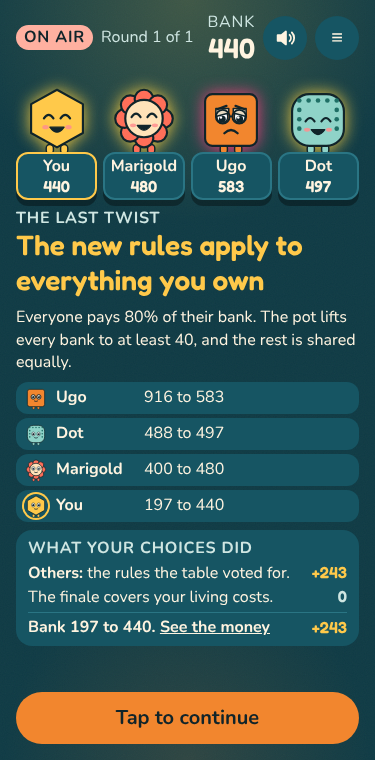
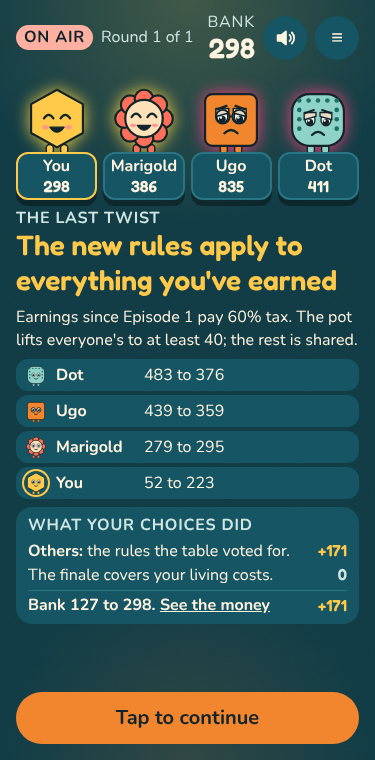
V5 docs: finale on earnings since Episode 1 (D-216), report and progress
Before and after table on 1,000 lives, the three Second Chance sweeps, the
new rules hash b43294bd2727aac5, the updated finale screenshot.

Claude-Session: https://claude.ai/code/session_01RbQhqfpyTmtKFQHjTVYERY

diff --git a/docs/V5_REPORT.md b/docs/V5_REPORT.md
@@ -1,8 +1,8 @@
 # V5 report
 
-Branch `v5`, made from `ui-v4` at `254be45`. Three phases, done in order, then an engine follow-up. Each was gated, committed, pushed and logged in `docs/V5_PROGRESS.md`. Choices are recorded in `DECISIONS.md` as D-210 to D-215 [V5, review]. Nothing was merged or deployed. Study is untouched: the golden test passes at every commit.
+Branch `v5`, made from `ui-v4` at `254be45`. Three phases, done in order, then an engine follow-up. Each was gated, committed, pushed and logged in `docs/V5_PROGRESS.md`. Choices are recorded in `DECISIONS.md` as D-210 to D-216 [V5, review]. Nothing was merged or deployed. Study is untouched: the golden test passes at every commit.
 
-**New rules hash: `d43a27b11694414b`** (`b1b485fa65cf3b29` before V5, `35f3c43191c5b77b` after N1). N1 and the follow-up changed the engine, each change in its own commit. Merging needs the room server redeployed with this hash first.
+**New rules hash: `b43294bd2727aac5`** (`b1b485fa65cf3b29` before V5, `35f3c43191c5b77b` after N1, `d43a27b11694414b` after the first follow-up). N1 and the follow-up changed the engine, each change in its own commit. Merging needs the room server redeployed with this hash first.
 
 ## N1. Missions removed (D-210)
 
@@ -181,9 +181,68 @@ Episodes 1 and 2 did not change, so E1 and E2 are identical.
 
 That is why born-poorest wins jumped to 64% (an even share would be 25%), and why the gap between first and last in score stays wide even though the banks end close together (top to bottom bank about 1.3 to 1). Only a scoring change reached the gap target: counting the whole bank from the start gave 22.1%, but it broke the other two targets. That is the owner's decision, not a tuning knob.
 
+## Finale on earnings since Episode 1 (D-216)
+
+D-215 taxed the whole bank, birth income included, while the score counts only the bank since the end of Episode 1. That double-counted: someone born rich paid tax on coins that never counted for them, and born-poorest wins rose to 64%.
+
+**The fix (`edaa0c8`).** In a life, the winning tax and floor act at the end of the finale, after donations and calls, on each contestant's earnings since the end of Episode 1 (their scored bank):
+- only positive earnings are taxed;
+- the floor tops up earnings below it;
+- the rest is shared equally;
+- the Episode 1 bank is not touched.
+
+The staged screen now says "The new rules apply to everything you've earned" and lists each contestant's earnings before and after while the podium banks count. Bots value their proposals, votes and donations under the new rule. A single Episode 5 is unchanged.
+
+**Sweeps (300 lives each).** Second Chance at 120, 180 and 250:
+
+| Second Chance | Finale lead change | Gap share | Born poorest wins | Note |
+|---|---|---|---|---|
+| 120 | 9.0% | 47.6% | 37.7% | |
+| 180 | 13.7% | 41.3% | 37.0% | **chosen**, best on all three |
+| 250 | 9.3% | 42.4% | 36.0% | |
+
+**Tuning (`7106441`).** Second Chance 250 to 180, confirmed on 1,000 lives.
+
+### Before and after, 1,000 bot lives
+
+| 1,000 bot lives | Before (`d43a27b11694414b`) | After (`b43294bd2727aac5`) |
+|---|---|---|
+| E1 peekers vote less redistribution (> 0) | 0.485 ± 0.026 PASS | 0.485 ± 0.026 PASS |
+| E2 effort slope on tax (< 0) | -4.225 ± 0.168 PASS | -4.225 ± 0.168 PASS |
+| E2 added: overclaimed hours (> 0) | 0.355 ± 0.015 PASS | 0.355 ± 0.015 PASS |
+| E3a high- to low-risk applicants (at least 2) | 4.72 PASS | 4.72 PASS |
+| E3b round-3 price rise (at least +15%) | +39.6% PASS | +39.6% PASS |
+| E3c bars that hit high risk (at least 60%) | 91.5% PASS | 91.5% PASS |
+| E3d round-3 pool price (above 0) | 0.391 PASS | 0.391 PASS |
+| E4a Circle minus Square gap positive (at least 70%) | 88.7% PASS | 89.0% PASS |
+| E4b passing Squares hired complex (at most 10%) | 0.0% PASS | 0.0% PASS |
+| E5 fair-answer shift slope (< 0) | -0.057 PASS | -0.051 PASS |
+| F-a lead changes per life (at least 2) | 3.75 PASS | 3.32 PASS |
+| F-b last after Ep2 finishes 1st or 2nd (at least 20%) | 35.4% PASS | 37.2% PASS |
+| F-c top two within 15% (at least 40%) | 56.4% PASS | 58.1% PASS |
+| F-d a big moment (at least 90%) | 96.7% PASS | 96.2% PASS |
+| F-f someone goes into debt (30% to 70%) | 53.8% PASS | 53.8% PASS |
+| Wins by bot trait (no target) | Chet 31.3%, Marigold 12.9%, Ugo 31.6%, Dot 24.2% | Chet 29.5%, Marigold 12.9%, Ugo 32.8%, Dot 24.8% |
+| U5: final order = order after Ep2 (at most 35%) | 9.4% PASS | 8.5% PASS |
+| **Ep4 leader loses the finale (at least 20%)** | 40.5% PASS | **9.8% ± 0.9 (miss)** |
+| **Score gap 1st to 4th, share of the winner (at most 45%)** | 57.4% (miss) | **44.7% ± 1.7 PASS** |
+| **Born poorest wins (15% to 35%)** | 64.0% (miss, above 35%) | **35.9% ± 1.5 (miss by 0.9 points)** |
+
+Episodes 1 to 3 did not change, so E1 to E3 are identical.
+
+**What this shows.** Taxing only earnings removes the double count:
+- the score gap now meets its target;
+- born-poorest wins falls from 64% to just over the ceiling.
+
+The cost is the finale lead change. With birth income untaxed, the finale compresses earnings but rarely reorders them, so the Episode 4 leader usually stays first. None of the three Second Chance values reached 20%. The three targets pull against each other with the knobs allowed. Meeting all three would need a different finale lever, for example a larger pot or a floor tied to the median; that is a rules decision.
+
+**Also in this round (UI only, `88e84da`).** Today's Daily Life seed overflowed 360 x 760 on two screens:
+- Episode 2's prize split among everyone now reads "Split 4 ways.";
+- the result card's best and worst lines drop the episode name.
+
 ## Taps and words
 
-Seed `fresh-life-1`, 375 x 760. Before is end of UI V4 (`254be45`); after is end of N3 (`2e86b33`). The engine follow-up turns the Second Chance into a screen with no choice and adds the finale's whole-bank beat: 74 taps on this seed (73 to 75 over three seeds), pace 7.5 min, decision screens at most 44 words. The "before" summary and pay word counts are from the UI V4 V3 walkthrough of the same seed; V4 did not change those screens.
+Seed `fresh-life-1`, 375 x 760. Before is end of UI V4 (`254be45`); after is end of N3 (`2e86b33`). The engine follow-ups turn the Second Chance into a screen with no choice and add the finale's beat: 74 taps on this seed, 76 on `fresh-life-3` (over N3's 75), pace 7.5 min, decision screens at most 44 words. The "before" summary and pay word counts are from the UI V4 V3 walkthrough of the same seed; V4 did not change those screens.
 
 | | Before | After N1 | After N3 |
 |---|---|---|---|
@@ -224,19 +283,19 @@ More shots are in `docs/review/v5/`:
 - the result card: `extra-result-card.png`
 - a carried result on the next screen: `extra-carried-result-ep1-peek.png`
 - the Second Chance screen: `extra-second-chance.png`
-- the finale's whole-bank beat: `extra-whole-bank.png`
+- the finale's earnings beat: `extra-whole-bank.png`
 - the Episode 3 secret cards with the new Worrier/Calm text: `extra-worrier-card.png` (this seed is Calm)
 - Episode 4's pay screen: `extra-ep4-pay.png`
 - an event card: `extra-ep3-event.png`
 
 ## What's left
 
-- **Score gap (D-215).** The finale now reorders the table (the Episode 4 leader loses it in 40.5% of lives), but the score gap share is 57.4% (target 40%). Born-poorest wins is 64.0%. Both come from scoring from the end of Episode 1 while the finale taxes birth income. Counting the whole bank from the start would fix the gap and break the other two targets; the owner decides.
-- **Second Chance at 250.** It is now a large gift (about two thirds of the top-to-bottom gap after Episode 3). In the screenshot seed, "last on score" is not the lowest bank, because the score counts from the end of Episode 1; the screen does not explain that.
-- **Finale beat.** It is 75 content words (a results screen, no limit set), and it repeats the bank change in "What your choices did".
+- **Finale lead change (D-216).** The Episode 4 leader loses the finale in 9.8% of lives (target at least 20%), and born-poorest wins is 35.9% (target at most 35%). The score gap passes (44.7%). Meeting all three needs a finale rule change; the owner decides.
+- **Second Chance at 180.** "Last on score" can hold more coins than someone else, because the score counts from the end of Episode 1; the screen does not explain that.
+- **Finale beat.** It lists earnings, while the podiums show banks; a reader may need a moment to see why the order differs.
 - **"You played like…".** The mapping from choices to principles is a judgement; review it.
 - **Worrier interest.** The 10% rate was not swept (it moves none of the three life targets).
-- **Taps.** A life is at 73 to 75 taps over three seeds after the follow-up, so a long one lands exactly on 75.
+- **Taps.** A life is at 74 to 76 taps after the follow-ups, one over N3's limit of 75 on `fresh-life-3`.
 - **Summary.** The ranking bars left the summary to stay under 50 words; only your place remains, and the screen now has a lot of empty space.
 - **Rooms.** Multiplayer rooms keep the folded screens (the incomes and prize screens), and were not tested against the room server.
 - **Not seen or heard by a person:** the new look's fonts, grain and characters, and the sounds from UI V4.
@@ -255,6 +314,9 @@ No person has played V5, including the follow-up. Every number here comes from b
   - `0a232ae`: Second Chance without a choice
   - `6bf11e0`: finale on the whole bank
   - `24e5dc4`: Second Chance 250 (tuning), rules hash `d43a27b11694414b`
+  - `edaa0c8`: finale taxes earnings since Episode 1
+  - `7106441`: Second Chance 180 (tuning), rules hash `b43294bd2727aac5`
+  - `88e84da`: two 360 px fit fixes (copy only)
 - This report and the docs are committed on top of them.
-- **Rules hash the room server must serve:** `d43a27b11694414b`.
+- **Rules hash the room server must serve:** `b43294bd2727aac5`.
 - **Preview link:** none. This run did not deploy, as instructed.

diff --git a/DECISIONS.md b/DECISIONS.md
@@ -851,3 +851,4 @@ The author's third review: lie success was 98% and bar recall 23%, so lying domi
 - **D-213 [V5, review] The Worrier pays interest (Play engine; own commit c6814e9).** A Worrier who ends an Episode 3 round in debt pays `PLAY.WORRIER_DEBT_RATE` (10%) of the debt, rounded up, as a ledger line "Worrier interest" (after the living costs; the bank line adds "Then -N Worrier interest."). Calm players pay none. It replaces D-128's debt-stress multiplier (`WORRIER_STRESS_MULT` 3), which stopped costing anything when the score became the bank (D-210). Bots value it the same way: a Worrier's own valuation takes the interest off its bank this round and in the rounds still to come at the episode's drift (as D-122's horizon), and the public models of others' choices and votes read a Worrier through the interest (the debt-stress risk aversion every bot has stays, at 1x for everyone). The card says exactly that: "End a round in debt and you pay 10% of the debt as interest, rounded up." / "No interest on debt." The rate was not swept (it moves none of the three life targets). Unit test: the line equals the rounded-up 10% of the debt before it, only for Worriers in debt.
 - **D-214 [V5, review] Second Chance without a choice (Play engine; own commit 0a232ae).** The coins-or-points DECIDE step is gone. In a life, a REVEAL step before Episode 4 gives whoever is last on score after Episode 3 `PLAY.SECOND_CHANCE_COINS` (was `COMEBACK.COINS` 120; the 40 points option is removed, so no score comes from anything but the bank). One screen for everyone ("The show feels sorry for you." or "for Ugo"), a +N stamp on the podium, tap to continue. Tuned to 250 in D-215.
 - **D-215 [V5, review] The finale reaches the whole bank (Play engine; own commit 6bf11e0; tuning 24e5dc4; rules hash 35f3c43191c5b77b to d43a27b11694414b).** In a life, the rule that wins Episode 5's amendments acts once on every contestant's whole bank at the end of the finale, after the donations and calls: each pays the tax on their bank above 0, the pot tops everyone (a debt too) up to the floor, and the rest is shared equally; if the pot is short, each top-up is cut in proportion (`wholeBankRule`; no leak, unlike Study's KAPPA). The finale still covers the living cost. Before, D-155 already taxed the banks, but at the start of the finale, with a debt counted as 0 and left in place, and with donations moved after the rule. Bots value their proposals, votes and donations under the new rule (a donation now moves coins before the tax). The veil stage still values constitutions on the deck times 2 (unchanged). A new staged beat in a life, "The new rules apply to everything you own": the podiums hold each bank before the rule (the ballots reveal holds them too), then each counts to its new value, with a before-and-after list and what your choices did; a rule of 0% and 0 says it changes nothing. A single Episode 5 is unchanged. **Sweeps** (300 lives, seeds runaway; finale lead change / score gap share / born poorest wins): with the new rules and no tuning 42.7% / 64.8% / 65.0%; finale values weight 1: 34.0 / 64.2 / 59.7; weight 10: 40.3 / 65.1 / 65.7; Second Chance 250: 40.7 / 58.0 / 64.0 (**chosen**); 400: 44.7 / 55.0 / 65.0 (400 is more than the whole top-to-bottom gap after Episode 3, about 390, so the gift would decide the life); 250 and weight 1: 36.0 / 58.5 / 61.0; informational, outside the allowed knobs, the whole bank scored from the start (`LIFE_BANK_FROM` 'START'): 5.7 / 22.1 / 11.0. **Confirming run, 1,000 lives** (rules d43a27b11694414b, params 93547dad4dcc12fd): every E check passes (E1 0.485, E2 -4.225, added +0.355 h, E3a 4.72, E3b +39.6%, E3c 91.5%, E3d 0.391, E4a 88.7%, E4b 0.0%, E5 -0.057); F-a 3.75, F-b 35.4%, F-c 56.4%, F-d 96.7%, F-f 53.8% all pass; wins by trait Chet 31.3%, Marigold 12.9%, Ugo 31.6%, Dot 24.2%; final order = order after Episode 2 9.4%; **Episode 4 leader loses the finale 40.5% (pass; was 13.3%)**; **score gap share 57.4% (fail, target at most 40%; was 59.8%)**; **born poorest wins 64.0% (pass, but far above an even 25%)**. Why the gap and born-poorest numbers: the score counts from the end of Episode 1 (D-203), and the finale now taxes the whole bank, birth income included, so a contestant born rich pays tax on coins that never counted for them, and the one born poorest gains. Only a scoring change (counting from the start, or excluding the finale's effect on birth income) reached the gap target, and it breaks the other two.
+- **D-216 [V5, review] The finale taxes earnings since Episode 1, consistent with the score (Play engine; own commit edaa0c8; tuning 7106441; rules hash d43a27b11694414b to b43294bd2727aac5).** Replaces D-215's base. D-215 applied the winning rule to the whole bank, birth income included, while the score counts only the bank since the end of Episode 1 (D-203): a contestant born rich paid tax on coins that never counted for them, and born-poorest wins rose to 64%. Now, in a life, the winning tax and floor act at the end of the finale (after donations and calls) on each contestant's earnings since the end of Episode 1 (bank minus `bankBase`): only positive earnings are taxed, the floor tops up earnings below it, the rest is shared equally (`wholeBankRule` on the scored banks; the Episode 1 bank is added back untouched). Bots value proposals, votes and donations under it. The staged beat says "The new rules apply to everything you've earned" and lists each contestant's earnings before and after while the podium banks count. A single Episode 5 is unchanged. **Sweeps** (300 lives; finale lead change / score gap share / born poorest wins): Second Chance 120: 9.0% / 47.6% / 37.7%; 180: 13.7% / 41.3% / 37.0% (**chosen**, best on all three); 250: 9.3% / 42.4% / 36.0%. **Confirming run, 1,000 lives** (rules b43294bd2727aac5, params b98c4676253cf212): every E and F check passes (E1 0.485, E2 -4.225, added +0.355 h, E3a 4.72, E3b +39.6%, E3c 91.5%, E3d 0.391, E4a 89.0%, E4b 0.0%, E5 -0.051; F-a 3.32, F-b 37.2%, F-c 58.1%, F-d 96.2%, F-f 53.8%); score gap share 44.7% ± 1.7 (pass, target at most 45%); **born poorest wins 35.9% ± 1.5 (miss by 0.9 points, target 15% to 35%)**; **Episode 4 leader loses the finale 9.8% ± 0.9 (miss, target at least 20%; 40.5% under D-215)**. With birth income untaxed, the finale compresses earnings but the Episode 1 banks keep their order, so the leader after Episode 4 usually stays ahead. Also in this round (UI only, commit 88e84da): today's Daily Life seed overflowed 360 x 760 twice; Episode 2's prize split among everyone reads "Split 4 ways.", and the result card's best and worst lines drop the episode name.

diff --git a/docs/V5_PROGRESS.md b/docs/V5_PROGRESS.md
@@ -10,11 +10,13 @@ Gate per phase: rules hash check, typecheck, build, unit tests (golden included)
 | N2 style B (Retro TV studio) | DONE | 35f3c43191c5b77b (unchanged) | typecheck, build, 223 unit, 18 e2e (style page test removed with the page), life walkthrough 375 and 360 and with hints, Ep3 Hard, axe 0 violations (64 screens), text under 16 px: 0 | D-211. Deep teal stage with studio glow and a static 4% grain, orange actions, Fredoka and Nunito, flat puppets with big eyes (6 expressions each, Dash's 4, the avatars), cream stamps; preview page removed. JS 267.4 KB gzipped. |
 | N3 fewer taps, shorter results | DONE | 35f3c43191c5b77b (unchanged) | typecheck, build, 223 unit, 18 e2e (new: summary at most 50 words, Ep4 pay at most 45, no unfilled placeholders), life walkthrough 375 and 360 and with hints, Ep3 Hard, single episodes 1 to 5 with hints, axe 0 violations (54 screens), text under 16 px: 0, `v4-did-check` 56 blocks 0 mismatches | D-212. Round results carried to the next round's first screen; folded screens; taps 94 to 73 (72 to 75 over five seeds); summary 37 to 46 words; Ep4 pay 11 to 43 words; Ep2 formula only behind "See the money". JS 265.2 KB gzipped. |
 | Engine follow-up: Worrier interest, Second Chance without a choice, finale on the whole bank | DONE (gap target missed) | d43a27b11694414b (new; was 35f3c43191c5b77b) | typecheck, build, 225 unit (golden included), 18 e2e, life walkthrough 375 and 360 and with hints, Ep3 Hard, axe 0 violations (53 screens), text under 16 px: 0; sims 1,000 lives | D-213 to D-215, engine changes in their own commits (c6814e9, 0a232ae, 6bf11e0, tuning 24e5dc4). All E and F checks pass. Ep4 leader loses the finale 40.5% (pass, was 13.3%); born poorest wins 64.0% (pass); score gap share 57.4% (fail, target 40%). Second Chance 250 after six sweeps. Taps 73 to 75 over three seeds. |
+| Finale on earnings since Episode 1 | DONE (finale lead change missed; born poorest 0.9 over) | b43294bd2727aac5 (new; was d43a27b11694414b) | typecheck, build, 225 unit (golden included), 18 e2e, life walkthrough 375 and 360 and with hints, Ep3 Hard, axe 0 violations (55 screens), text under 16 px: 0; sims 1,000 lives | D-216 (edaa0c8, tuning 7106441; UI fit fixes 88e84da). All E and F checks pass. Score gap share 44.7% (pass, at most 45%); born poorest wins 35.9% (target 15 to 35%); Ep4 leader loses the finale 9.8% (target at least 20%). Second Chance 180. Taps 74 (fresh-life-1), 76 (fresh-life-3). |
 
 ## Needs Amir
 
 - D-212: a life is at 72 to 75 taps over five seeds, so a long life (comeback, many events) can land at 75; the ranking bars left the summary (place only) to stay under 50 words.
 - D-211: the negative coral is lighter than in the preview (#ffb0a0) to pass AA on cards; Play's smallest text is 16 px, so screens are denser.
-- D-215: the finale now reorders (Ep4 leader loses it in 40.5% of lives), but the score gap share is 57.4% (target 40%) and born poorest wins 64.0%: the finale taxes birth income that the score does not count (D-203). Only a scoring change reached the gap target, and it broke the other two.
+- D-216: with the finale taxing earnings since Episode 1, the gap (44.7%) and born-poorest wins (35.9%) are near their targets, but the Episode 4 leader loses the finale in only 9.8% of lives (target 20%). The three targets pull against each other with the knobs allowed.
+- Taps: a life is 74 to 76 taps now (the finale beat added one); the N3 limit was 75.
 - D-210: "You played like..." maps choices to principles by fixed rules (a judgement); review the mapping.
 - D-213: the Worrier now pays 10% interest on a debt (not swept).
